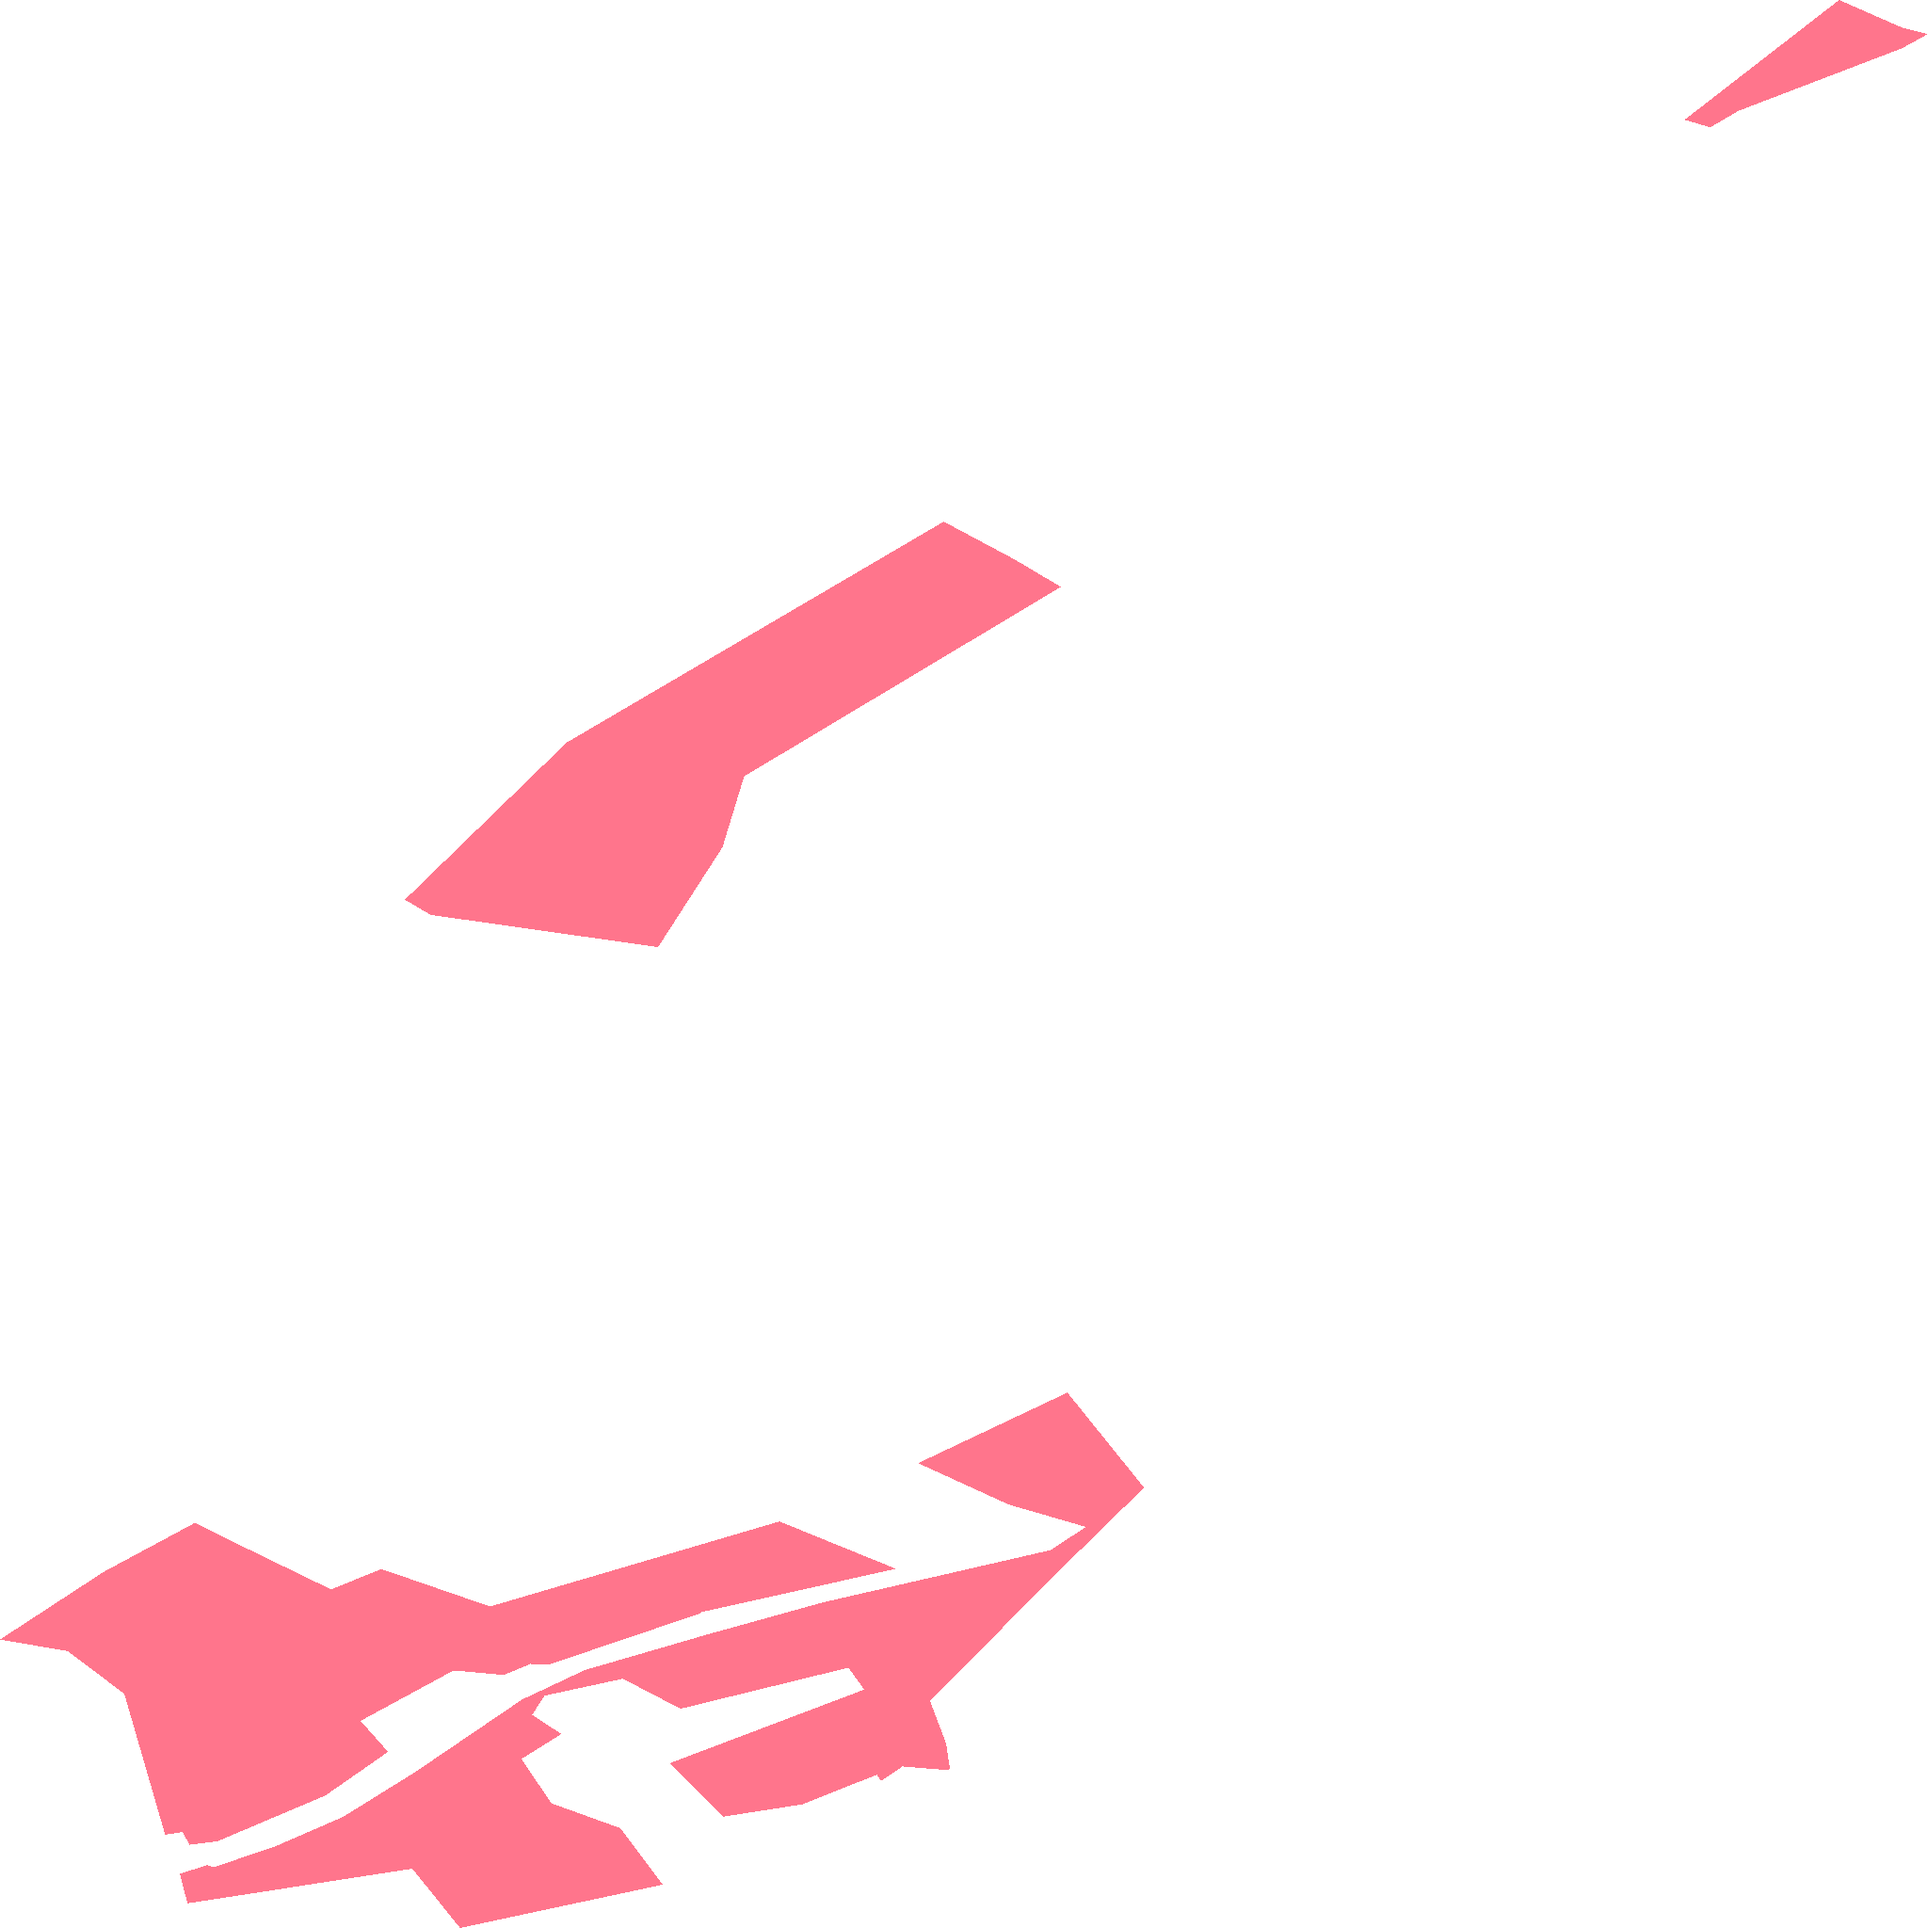
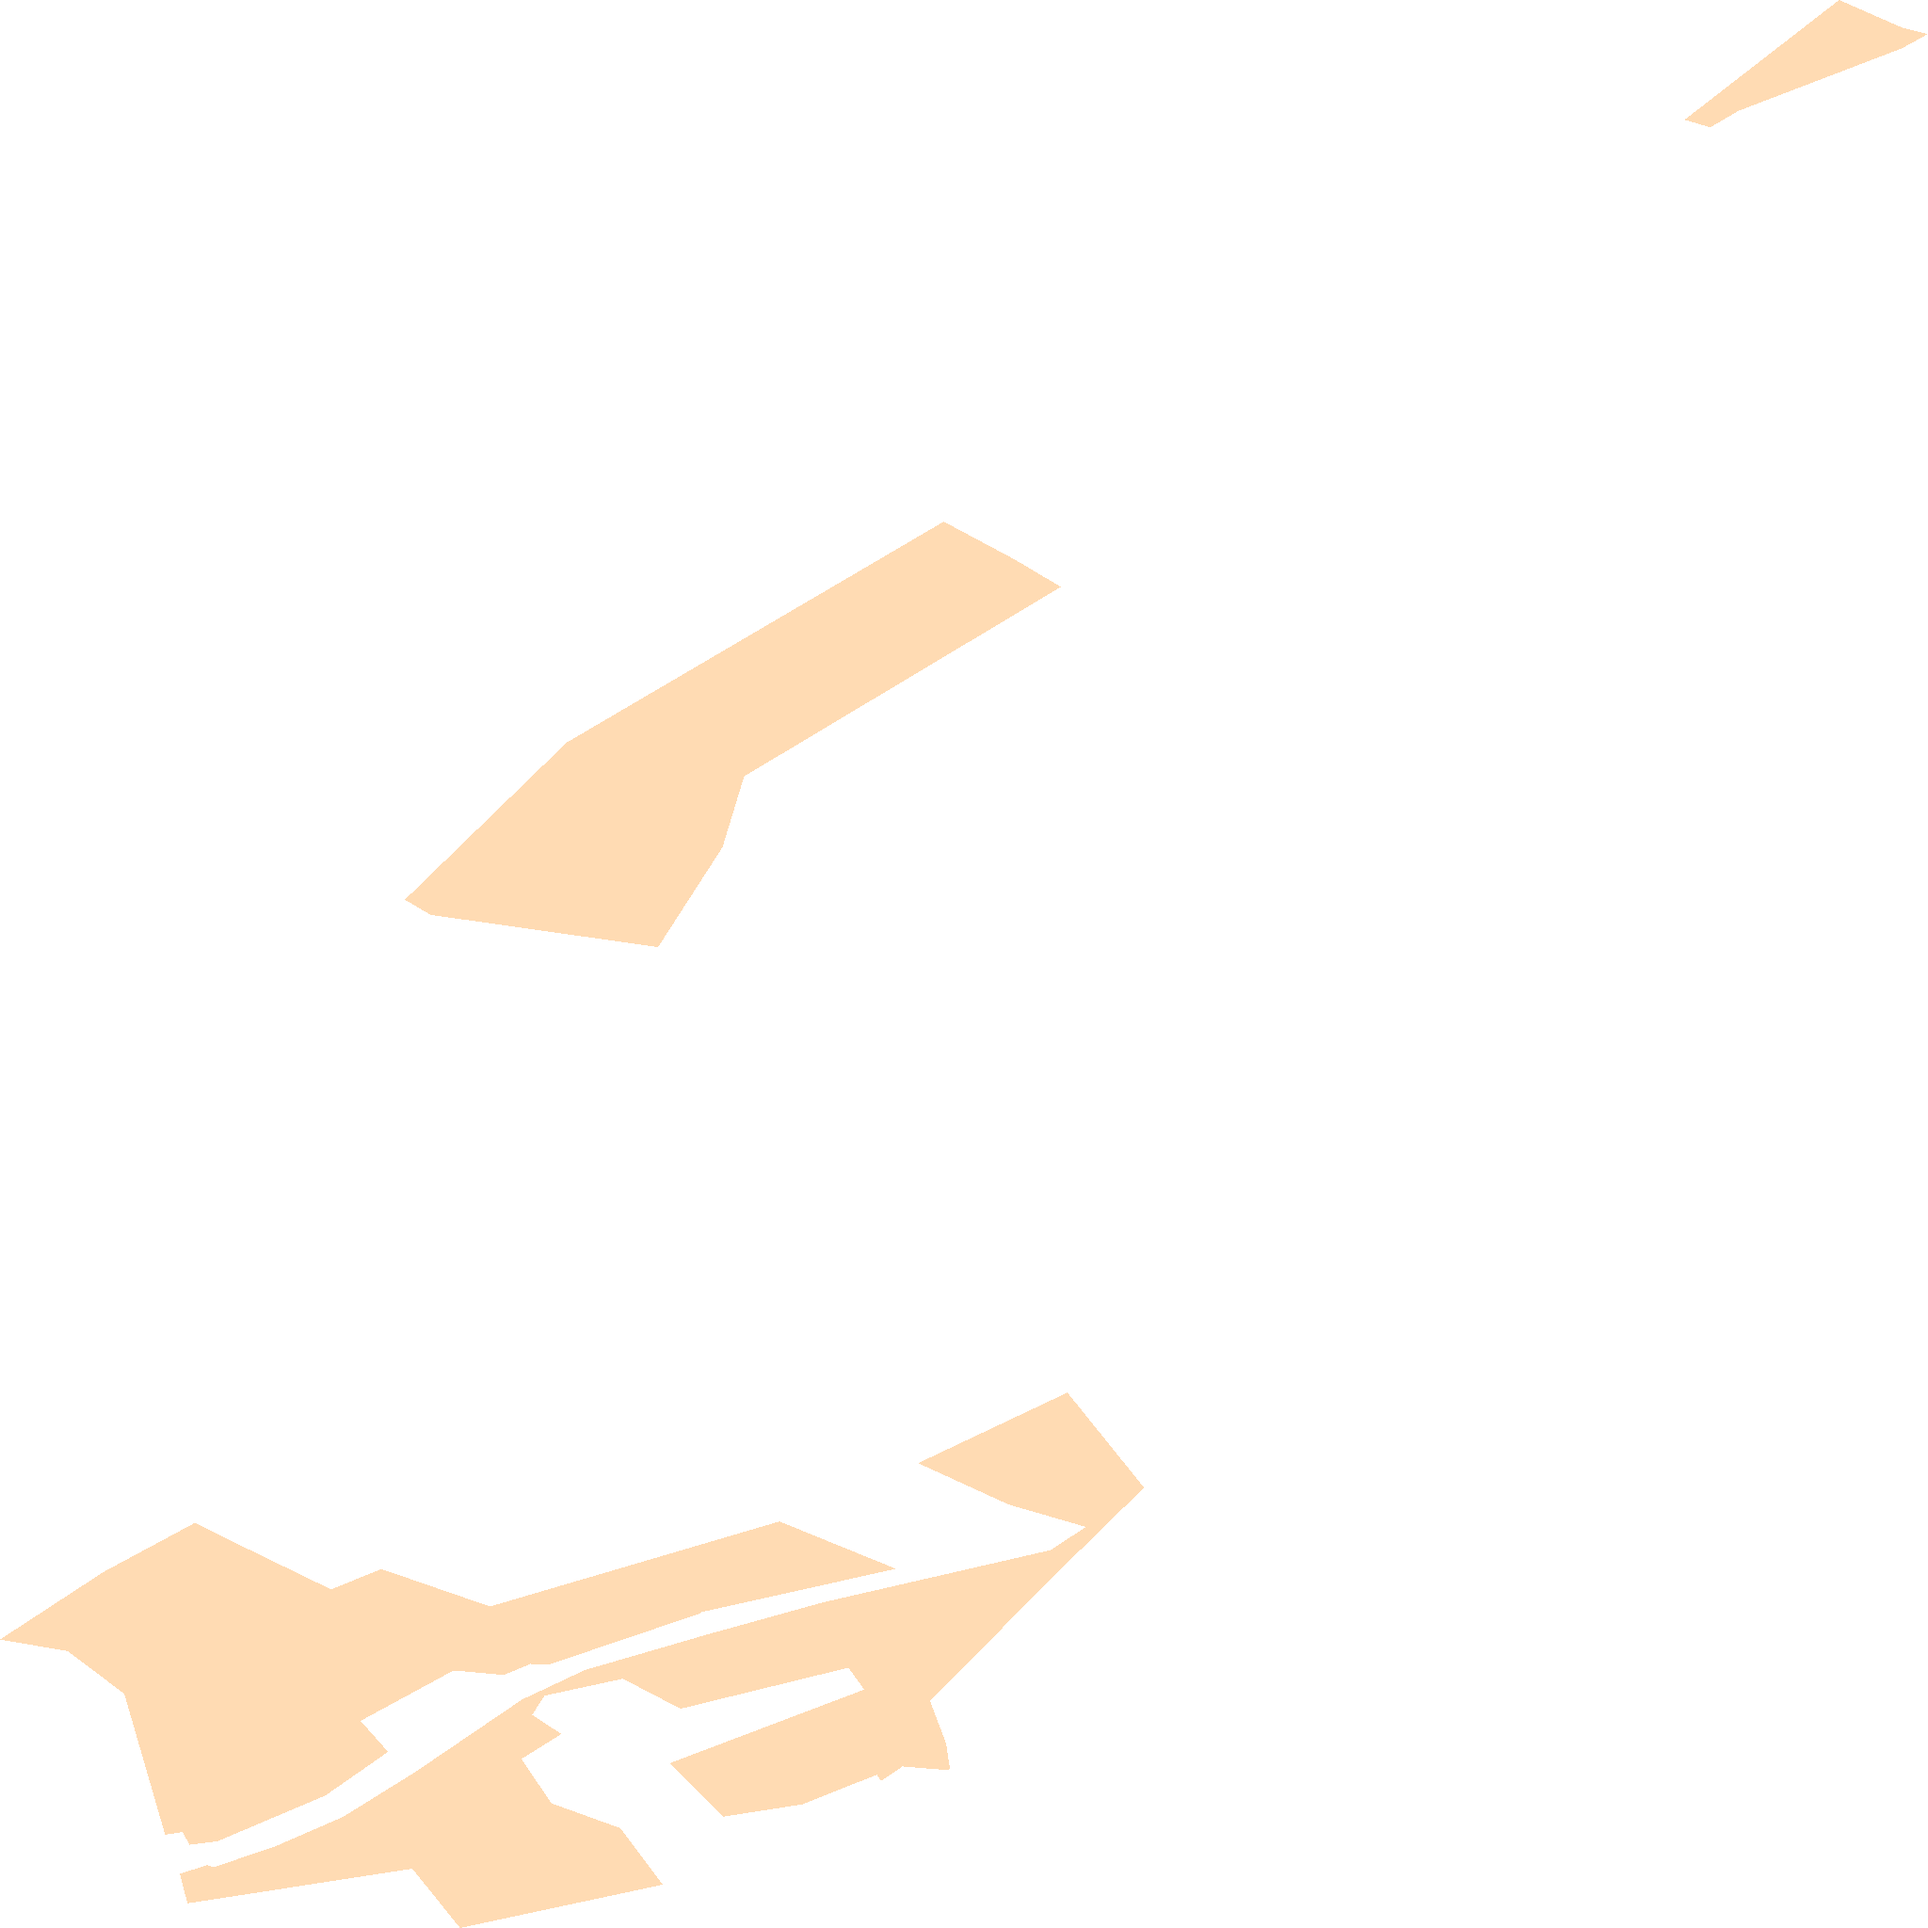
Karte sp_1371

Changed region(s): [[0.0, 0.7188, 0.5938, 1.0], [0.2188, 0.25, 0.5625, 0.5], [0.875, 0.0, 1.0, 0.0625]]

diff --git a/sp_1371.html b/sp_1371.html
@@ -128,8 +128,9 @@
 <body>
     <div id="map"></div>
     <div id="legend">
-        <div><span style="display:inline-block; width:20px; height:10px; background:#FF7F00; margin-right:5px;"></span>Ausbauphase 1: Ausbau bei ausreichender Nachfrage</div>
+        <div><span style="display:inline-block; width:20px; height:10px; background:#FF7F00; margin-right:5px;"></span>Ausbauphase 1: Glasfasernetz vorhanden oder geplant</div>
         <div><span style="display:inline-block;width:20px; height:10px; background:#00143C; margin-right:5px;"></span>Ausbauphase 2: Interessenbekundung möglich</div>
+        <div><span style="display:inline-block;width:20px; height:10px; background:#FFC17D; margin-right:5px;"></span>Ausbauphase 3: Gefördertes Ausbaugebiet </div>
     </div>
     <script>
     const bounds = [[51.641866648, 7.781767935], [51.658370168, 7.794176568]];
